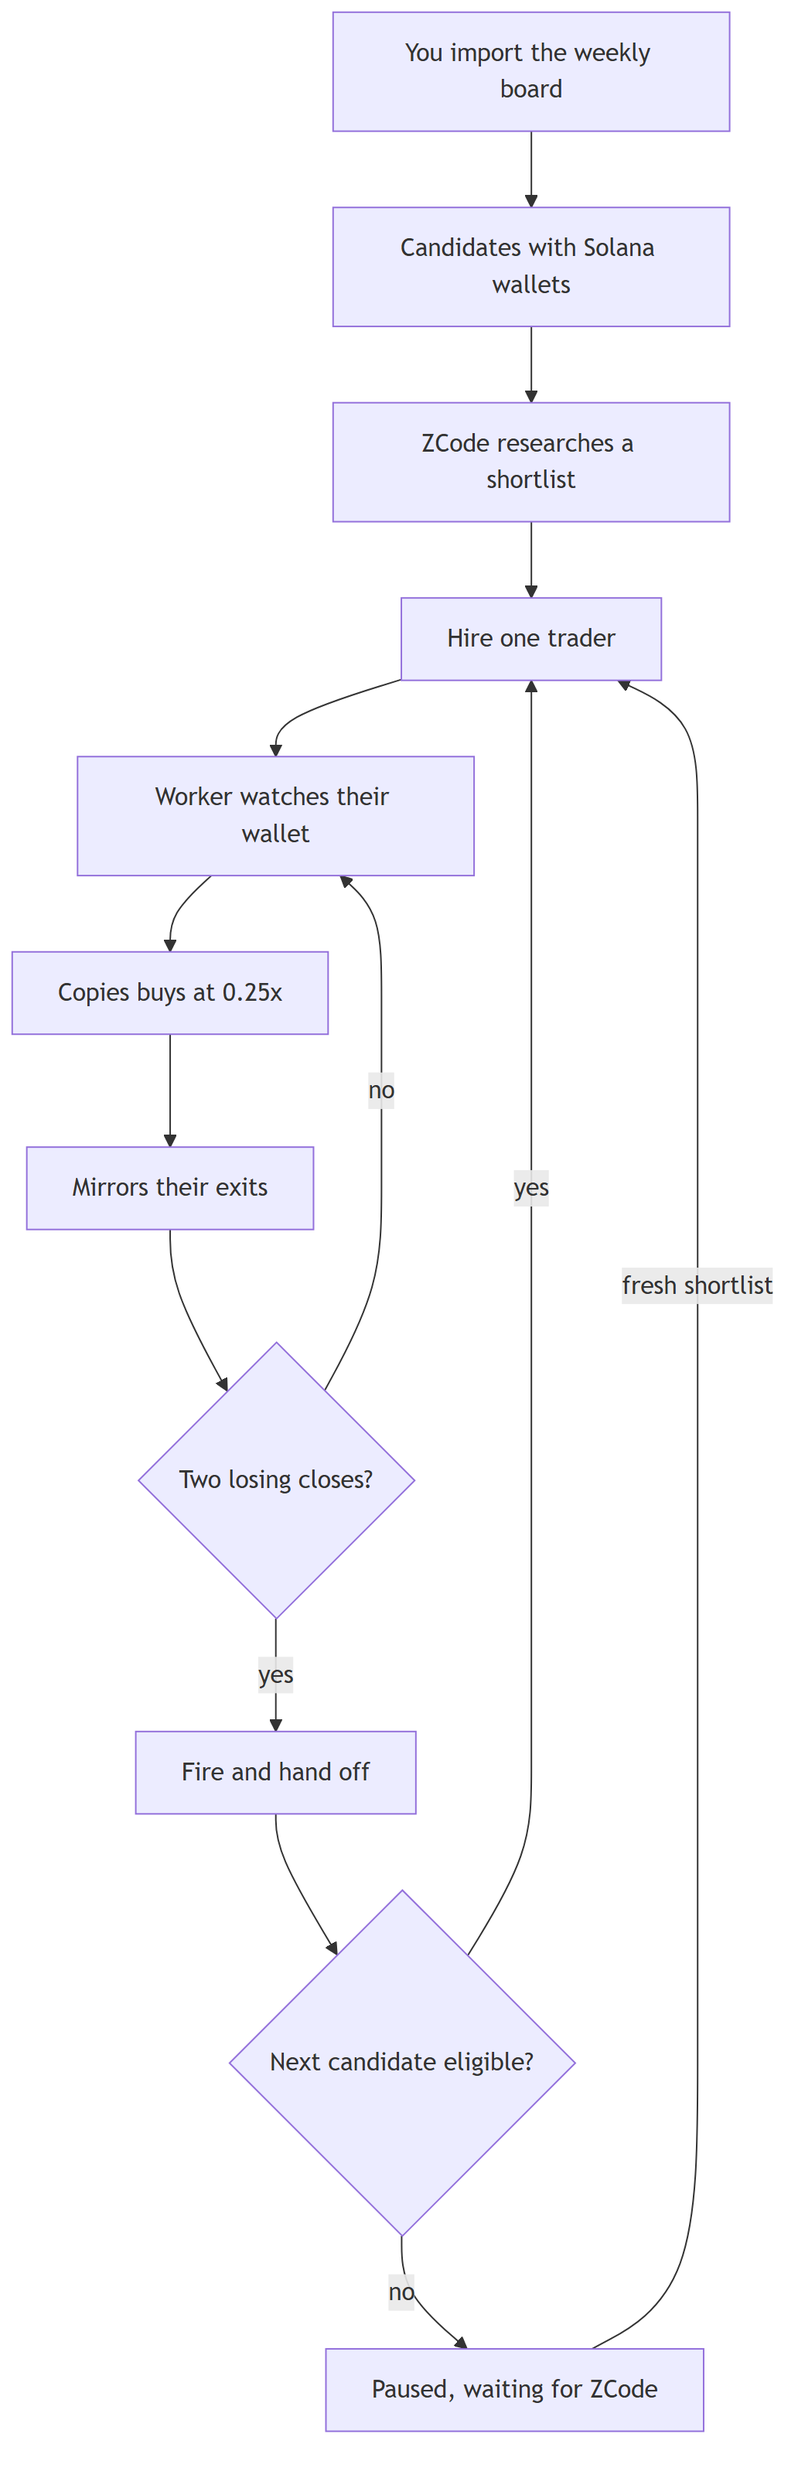
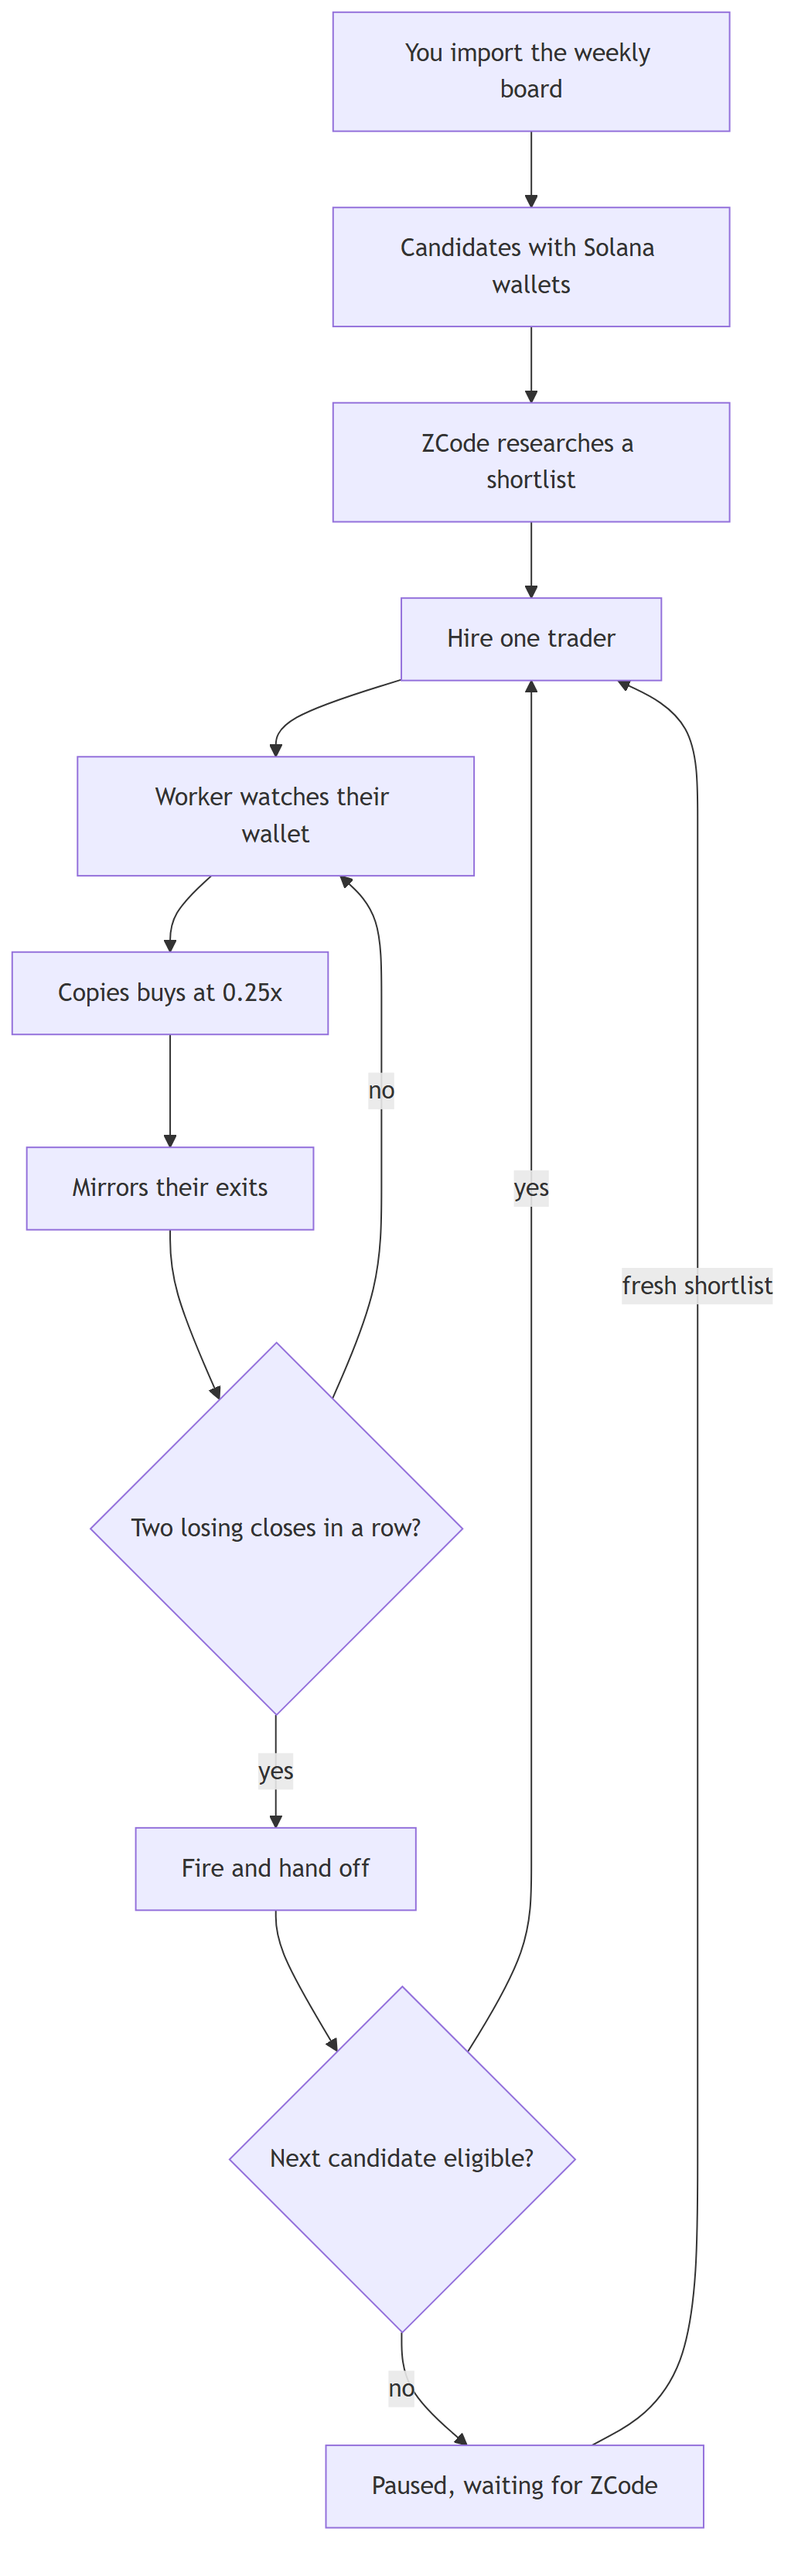
README: make firing explicitly consecutive, not cumulative
State that two losing units in a row fire a trader, that a winning unit resets the count, that a breakeven leaves it unchanged by default, and that partial closes neither add to nor reset it under the default unit type. Update both diagram labels, add the reset note to the handoff diagram, and re-render the PNGs.

diff --git a/README.md b/README.md
@@ -1,10 +1,10 @@
 # ZCode Bot
 
-**Copy one Solana trader. A quarter of their size. Fire them after two losing closes.**
+**Copy one Solana trader. A quarter of their size. Fire them after two losing closes in a row.**
 
 ## What this is
 
-ZCode Bot runs on your own Windows PC. You import a trader from a leaderboard, or add one by hand. The bot watches that person's Solana wallet, repeats their buys in your wallet at a quarter of the size they put in, and mirrors their sells. Two losing closes in a row end the relationship: the bot stops copying, closes what it opened, and hires the next name from a shortlist ZCode researched beforehand. If no acceptable name is left, it pauses and says why.
+ZCode Bot runs on your own Windows PC. You import a trader from a leaderboard, or add one by hand. The bot watches that person's Solana wallet, repeats their buys in your wallet at a quarter of the size they put in, and mirrors their sells. Two losing closes in a row end the relationship, since a winning close resets the count; the bot stops copying, closes what it opened, and hires the next name from a shortlist ZCode researched beforehand. If no acceptable name is left, it pauses and says why.
 
 What you end up with:
 
@@ -56,7 +56,7 @@ When it works you land on the TRADE tab with a flat equity line and a **WAITING 
 
 ## The loop at a glance
 
-![The ZCode Bot loop: you import the weekly board, candidates gain Solana wallets, ZCode researches a shortlist, the bot hires a trader and watches their wallet, copies buys at 0.25x, mirrors exits, fires the trader after two losing closes, then hires the next candidate or pauses until a fresh shortlist arrives](docs/images/copy-loop-overview.png)
+![The ZCode Bot loop: you import the weekly board, candidates gain Solana wallets, ZCode researches a shortlist, the bot hires a trader and watches their wallet, copies buys at 0.25x, mirrors exits, fires the trader after two losing closes in a row, then hires the next candidate or pauses until a fresh shortlist arrives](docs/images/copy-loop-overview.png)
 
 _One hire at a time: the middle of the loop repeats for every leader swap, and the only exits are the next hire or a deliberate pause._
 
@@ -159,11 +159,11 @@ Execution is a single boundary. The paper executor simulates and never signs. Th
 
 Firing is atomic and ordered:
 
-![A state diagram of the firing handoff: watching the trader, firing after two losing closes, cancelling unsigned intents, closing positions per policy and cooling the trader down for 24 hours, then either hiring the next eligible candidate or pausing until a fresh shortlist or manual pick](docs/images/firing-handoff.png)
+![A state diagram of the firing handoff: watching the trader, firing after two losing closes in a row, cancelling unsigned intents, closing positions per policy and cooling the trader down for 24 hours, then either hiring the next eligible candidate or pausing until a fresh shortlist or manual pick](docs/images/firing-handoff.png)
 
 _The only way back from a firing is a candidate the worker accepts, or a fresh shortlist that gives it one._
 
-When the second consecutive losing unit closes, the worker marks the trader `FIRING`, cancels unsigned intents, applies the position policy (the default closes all copied positions before switching), records a 24 hour cooldown for the fired trader, and then walks the shortlist in the order ZCode gave. Fired, cooling down, disabled, stale, unsupported, or ambiguous candidates are skipped with recorded reasons. When nothing qualifies, the app state becomes **PAUSED_WAITING_FOR_ZCODE**. New entries stop; monitoring, mirrored exits, reconciliation, and the emergency controls keep working.
+Firing counts consecutive losing units, not total losses. With the default unit type, one fully closed position is one unit, and partial closes neither add to nor reset the count. A winning unit resets the count to zero; a breakeven unit leaves it unchanged by default. When the second consecutive losing unit closes, the worker marks the trader `FIRING`, cancels unsigned intents, applies the position policy (the default closes all copied positions before switching), records a 24 hour cooldown for the fired trader, and then walks the shortlist in the order ZCode gave. Fired, cooling down, disabled, stale, unsupported, or ambiguous candidates are skipped with recorded reasons. When nothing qualifies, the app state becomes **PAUSED_WAITING_FOR_ZCODE**. New entries stop; monitoring, mirrored exits, reconciliation, and the emergency controls keep working.
 
 Unknown execution outcomes never get retried blind. An order whose signed or submitted result is unknown becomes `REQUIRES_RECONCILIATION`, and the state machine has no path back to a quotable state. You resolve the case with on-chain evidence; the procedure is in `docs/RUNBOOK.md`.
 
